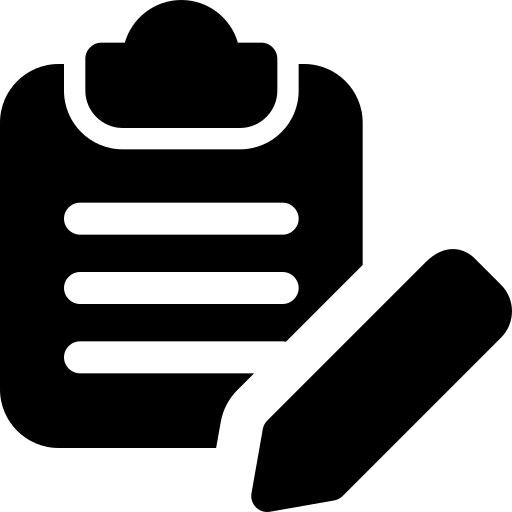
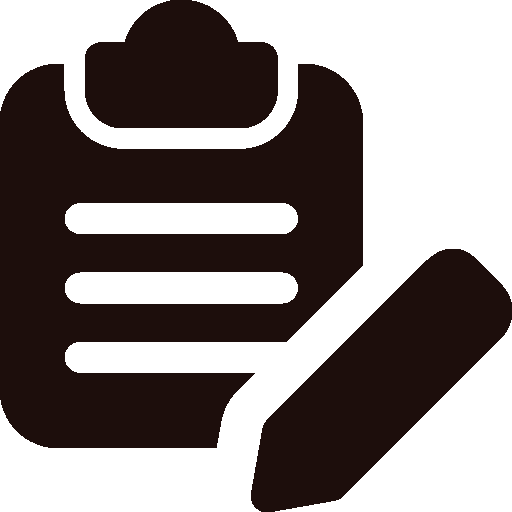
Ver IX.

diff --git a/orarend.js b/orarend.js
@@ -32,89 +32,89 @@ function orarendLetrehozas()
             <tr>
                 <td rowspan="2"><strong>Hétfő</strong></td>
                 <td rowspan="2"></td>
-                <td rowspan="2" onclick="oraTulajdonsagok('Blahó-Kiss Katalin', '18', 32, 'egész osztály')">köznev</td>
-                <td onclick="oraTulajdonsagok('Borbély Katalin', '6', 16, 'haladó angol')">mat</td>
-                <td onclick="oraTulajdonsagok('Kristó Ágnes', '21', 16, 'haladó angol')">ang</td>
-                <td rowspan="2" onclick="oraTulajdonsagok('Soltész Gábor', 'Tornaterem', 32, 'egész osztály')">test</td>
-                <td rowspan="2" onclick="oraTulajdonsagok('Blahó-Kiss Katalin', '18', 32, 'egész osztály')">iro</td>
-                <td rowspan="2" onclick="oraTulajdonsagok('Pádár Miklós', '1', 32, 'egész osztály')">tört</td>
-                <td rowspan="2" onclick="oraTulajdonsagok('Marczin Attila', '9', 32, 'egész osztály')">fiz</td>
+                <td class="attr" rowspan="2" onclick="oraTulajdonsagok('Osztályfőnöki', 'Blahó-Kiss Katalin', '18', 32, 'egész osztály')">köznev</td>
+                <td class="attr" onclick="oraTulajdonsagok('Matematika', 'Borbély Katalin', '6', 16, 'haladó angol')">mat</td>
+                <td class="attr" onclick="oraTulajdonsagok('Angol', 'Kristó Ágnes', '21', 16, 'haladó angol')">ang</td>
+                <td class="attr" rowspan="2" onclick="oraTulajdonsagok('Testnevelés', 'Soltész Gábor', 'Tornaterem', 32, 'egész osztály')">test</td>
+                <td class="attr" rowspan="2" onclick="oraTulajdonsagok('Irodalom', 'Blahó-Kiss Katalin', '18', 32, 'egész osztály')">iro</td>
+                <td class="attr" rowspan="2" onclick="oraTulajdonsagok('Történelem', 'Pádár Miklós', '1', 32, 'egész osztály')">tört</td>
+                <td class="attr" rowspan="2" onclick="oraTulajdonsagok('Fizika', 'Marczin Attila', '9', 32, 'egész osztály')">fiz</td>
                 <td rowspan="2"></td>
             </tr>
 
             <tr>
-                <td onclick="oraTulajdonsagok('Kovács Zsuzsanna', '7', 16, 'kezdő angol')">mat</td>
-                <td onclick="oraTulajdonsagok('Bodócsné Dér Krisztina', '17', 16, 'kezdő angol')">ang</td>
+                <td class="attr" onclick="oraTulajdonsagok('Matematika', 'Kovács Zsuzsanna', '7', 16, 'kezdő angol')">mat</td>
+                <td class="attr" onclick="oraTulajdonsagok('Angol', 'Bodócsné Dér Krisztina', '17', 16, 'kezdő angol')">ang</td>
             </tr>
 
             <tr>
                 <td rowspan="4"><strong>Kedd</strong></td>
                 <td rowspan="4"></td>
-                <td rowspan="2" onclick="oraTulajdonsagok('Blahó-Kiss Katalin', '38', 16, 'haladó angol')">nyt</td>
-                <td rowspan="2" colspan="2" onclick="oraTulajdonsagok('Válócziné Tóth Ildikó', '35', 16, 'haladó angol')">szang</td>
-                <td rowspan="2" onclick="oraTulajdonsagok('Borbély Katalin', '6', 'haladó angol')">mat</td>
-                <td rowspan="2" onclick="oraTulajdonsagok('Kristó Ágnes', '8', 16, 'haladó angol')">ang</td>
-                <td colspan="2" onclick="oraTulajdonsagok('Árvai Anita', '23', 16, 'haladó angol')">webpr</td>
+                <td class="attr" rowspan="2" onclick="oraTulajdonsagok('Nyelvtan', 'Blahó-Kiss Katalin', '38', 16, 'haladó angol')">nyt</td>
+                <td class="attr" rowspan="2" colspan="2" onclick="oraTulajdonsagok('Szakmai angol', 'Válócziné Tóth Ildikó', '35', 16, 'haladó angol')">szang</td>
+                <td class="attr" rowspan="2" onclick="oraTulajdonsagok('Matematika', 'Borbély Katalin', '6', 'haladó angol')">mat</td>
+                <td class="attr" rowspan="2" onclick="oraTulajdonsagok('Angol', 'Kristó Ágnes', '8', 16, 'haladó angol')">ang</td>
+                <td class="attr" colspan="2" onclick="oraTulajdonsagok('Webprogramozás', 'Árvai Anita', '23', 16, 'haladó angol')">webpr</td>
                 <td rowspan="4"></td>
             </tr>
 
             <tr>
-                <td colspan="2" onclick="oraTulajdonsagok('Kun Dániel', '25', 16, 'kezdő angol')">webpr</td>
+                <td class="attr" colspan="2" onclick="oraTulajdonsagok('Webprogramozás', 'Kun Dániel', '25', 16, 'kezdő angol')">webpr</td>
             </tr>
 
             <tr>
-                <td rowspan="2" onclick="oraTulajdonsagok('Bodócsné Dér Krisztina', '5', 16, kezdő angol)">ang</td>
-                <td rowspan="2" colspan="2" onclick="oraTulajdonsagok('Tüskéné Dombi Zsusanna', '24', 16, 'kezdő angol')">aalkf</td>
-                <td rowspan="2" colspan="2" onclick="oraTulajdonsagok('Horváth Zoltán', '23', 16, 'kezdő angol')">adatbkl</td>
-                <td onclick="oraTulajdonsagok('Árvai Anita', '23', 16, 'haladó angol')">webpr</td>
+                <td class="attr" rowspan="2" onclick="oraTulajdonsagok('Angol', 'Bodócsné Dér Krisztina', '5', 16, 'kezdő angol')">ang</td>
+                <td class="attr" rowspan="2" colspan="2" onclick="oraTulajdonsagok('Asztali alkalmazás-fejlesztés', 'Tüskéné Dombi Zsusanna', '24', 16, 'kezdő angol')">aalkf</td>
+                <td class="attr" rowspan="2" colspan="2" onclick="oraTulajdonsagok('Adatbázis-kezelés', 'Horváth Zoltán', '23', 16, 'kezdő angol')">adatbkl</td>
+                <td class="attr" onclick="oraTulajdonsagok('Webprogramozás', 'Árvai Anita', '23', 16, 'haladó angol')">webpr</td>
                 <td rowspan="2"></td>
             </tr>
 
             <tr>
-                <td onclick="oraTulajdonsagok('Kun Dániel', '25', 16, 'kezdő angol')">webpr</td>
+                <td class="attr" onclick="oraTulajdonsagok('Webprogramozás', 'Kun Dániel', '25', 16, 'kezdő angol')">webpr</td>
             </tr>
 
             <tr>
                 <td rowspan="2"><strong>Szerda</strong></td>
                 <td rowspan="2"></td>
-                <td rowspan="2" onclick="oraTulajdonsagok('Marczin Attila', '11', 32, 'egész osztály'")>fiz</td>
-                <td rowspan="2" onclick="oraTulajdonsagok('Lukács Edina', '11', 32, 'egész osztály'")>hit</td>
-                <td onclick="oraTulajdonsagok('Kristó Ágnes', '5', 16, 'haladó angol'")>ang</td>
-                <td rowspan="2" onclick="oraTulajdonsagok('Pádár Miklós', '1', 32, 'egész osztály'")>tört</td>
-                <td rowspan="2" onclick="oraTulajdonsagok('Blahó-Kiss Katalin', '18', 32, 'egész osztály'")>iro</td>
-                <td colspan="2" onclick="oraTulajdonsagok('Tüskéné Dombi Zsuzsanna', '25', 16, 'haladó angol'")>aalkf</td>
-                <td rowspan="2" onclick="oraTulajdonsagok('Soltész Gábor', 'Tornaterem', 32, 'egész osztály'")>test</td>
+                <td class="attr" rowspan="2" onclick="oraTulajdonsagok('Fizika', 'Marczin Attila', '11', 32, 'egész osztály')">fiz</td>
+                <td class="attr" rowspan="2" onclick="oraTulajdonsagok('Hittan', 'Lukács Edina', '11', 32, 'egész osztály')">hit</td>
+                <td class="attr" onclick="oraTulajdonsagok('Angol', 'Kristó Ágnes', '5', 16, 'haladó angol')">ang</td>
+                <td class="attr" rowspan="2" onclick="oraTulajdonsagok('Történelem', 'Pádár Miklós', '1', 32, 'egész osztály')">tört</td>
+                <td class="attr" rowspan="2" onclick="oraTulajdonsagok('Irodalom', 'Blahó-Kiss Katalin', '18', 32, 'egész osztály')">iro</td>
+                <td class="attr" colspan="2" onclick="oraTulajdonsagok('Asztali alkalmazás-fejlesztés', 'Tüskéné Dombi Zsuzsanna', '25', 16, 'haladó angol')">aalkf</td>
+                <td class="attr" rowspan="2" onclick="oraTulajdonsagok('Testnevelés', 'Soltész Gábor', 'Tornaterem', 32, 'egész osztály')">test</td>
             </tr>
 
             <tr>
-                <td onclick="oraTulajdonsagok('Bodócsné Dér Krisztina', '37', 16, 'kezdő csoport'")>ang</td>
-                <td onclick="oraTulajdonsagok('Blahó-Kiss Katalin', '18', 16, 'kezdő angol'")>nyt</td>
-                <td onclick="oraTulajdonsagok('Kovács Zsuzsanna', '7', 16, 'kezdő angol'")>mat</td>
+                <td class="attr" onclick="oraTulajdonsagok('Angol', 'Bodócsné Dér Krisztina', '37', 16, 'kezdő csoport')">ang</td>
+                <td class="attr" onclick="oraTulajdonsagok('Nyelvtan', 'Blahó-Kiss Katalin', '18', 16, 'kezdő angol')">nyt</td>
+                <td class="attr" onclick="oraTulajdonsagok('Matematika', 'Kovács Zsuzsanna', '7', 16, 'kezdő angol')">mat</td>
             </tr>
 
             <tr>
                 <td rowspan="2"><strong>Csütörtök</strong></td>
                 <td rowspan="2"></td>
-                <td colspan="2">webpr</td>
-                <td rowspan="2">iro</td>
-                <td colspan="2">adatbkl</td>
-                <td colspan="2">aalkf</td>
+                <td class="attr" colspan="2" onclick="oraTulajdonsagok('Webprogramozás', 'Árvai Anita', '23', 16, 'haladó angol')">webpr</td>
+                <td class="attr" rowspan="2" onclick="oraTulajdonsagok('Irodalom', 'Blahó-Kiss Katalin', '18', 32, 'egész osztály')">iro</td>
+                <td class="attr" colspan="2" onclick="oraTulajdonsagok('Adatbázis-kezelés', 'Horváth Zoltán', '25', 16, 'haladó angol')">adatbkl</td>
+                <td class="attr" colspan="2" onclick="oraTulajdonsagok('Asztali alkalmazás-fejlesztés', 'Tüskéné Dombi Zsuzsanna', '24', 16, 'haladó angol')">aalkf</td>
                 <td rowspan="2"></td>
             </tr>
 
             <tr>
-                <td colspan="2">webpr</td>
-                <td colspan="2">aalkf</td>
-                <td colspan="2">szang</td>
+                <td class="attr" colspan="2" onclick="oraTulajdonsagok('Webprogramozás', 'Kun Dániel', '22', 16, 'kezdő angol')">webpr</td>
+                <td class="attr" colspan="2" onclick="oraTulajdonsagok('Asztali alkalmazás-fejlesztés', 'Tüskéné Dombi Zsuzsanna', '24', 16, 'kezdő angol')">aalkf</td>
+                <td class="attr" colspan="2" onclick="oraTulajdonsagok('Szakmai angol', 'Tátrai Krisztina', '35', 16, 'kezdő angol')">szang</td>
             </tr>
 
             <tr>
                 <td rowspan="2"><strong>Péntek</strong></td>
-                <td rowspan="2">hit</td>
-                <td>mat</td>
-                <td rowspan="2">tört</td>
-                <td>ang</td>
-                <td rowspan="2">test</td>
+                <td class="attr" rowspan="2" onclick="oraTulajdonsagok('Hittan', 'Lukács Edina', '3', 32, 'egész osztály')">hit</td>
+                <td class="attr" onclick="oraTulajdonsagok('Matematika', 'Borbély Katalin', '6', 16, 'haladó angol')">mat</td>
+                <td class="attr" rowspan="2" onclick="oraTulajdonsagok('Történelem', 'Pádár Miklós', '1', 32, 'egész osztály')">tört</td>
+                <td class="attr" onclick="oraTulajdonsagok('Angol', 'Kristó Ágnes', '28', 16, 'haladó angol')">ang</td>
+                <td class="attr" rowspan="2" onclick="oraTulajdonsagok('Testnevelés', 'Soltész Gábor', 'Tornaterem', 32, 'egész osztály')">test</td>
                 <td rowspan="2"></td>
                 <td rowspan="2"></td>
                 <td rowspan="2"></td>
@@ -122,8 +122,8 @@ function orarendLetrehozas()
             </tr>
 
             <tr>
-                <td>mat</td>
-                <td>ang</td>
+                <td class="attr" onclick="oraTulajdonsagok('Matematika', 'Kovács Zsuzsanna', '7', 16, 'kezdő angol')">mat</td>
+                <td class="attr" onclick="oraTulajdonsagok('Angol', 'Bodócsné Dér Krisztina', '5', 16, 'kezdő angol')">ang</td>
             </tr>
         </table>
 
@@ -139,7 +139,28 @@ function adatokTorlese()
     </div>`
 }
 
-function oraTulajdonsagok()
+function oraTulajdonsagok(ora, tanar, terem, letszam, csoport)
 {
+    let oraMegnevezes = ora
+    let tanarMegnevezes = tanar
+    let teremMegnevezes = terem
+    let letszamMegnevezes = letszam
+    let csoportMegnevezes = csoport
+
     szuloTartalom.innerHTML = ''
+
+    szuloTartalom.innerHTML =
+    `<div class="keret_tulajdonsagok">
+        <img src="./kepek/bezaras.png" alt="Bezárás" title="A nézet bezárásához kattintson ide!" id="bezaras" onclick="orarendLetrehozas()">
+
+        <h1 class="cimek">${oraMegnevezes}</h1>
+        <hr>
+        <h2><b>Tanár</b>:\t${tanarMegnevezes}</h2>
+        <hr>
+        <h2><b>Terem</b>:\t${teremMegnevezes}</h2>
+        <hr>
+        <h2><b>Létszám</b>:\t${letszamMegnevezes}</h2>
+        <hr>
+        <h2><b>Csoport</b>:\t${csoportMegnevezes}</h2>
+    </div>`
 }

diff --git a/fooldal_stilus.css b/fooldal_stilus.css
@@ -15,7 +15,7 @@ header, nav, main, footer {
     height: auto;
 }
 
-.keret_fejlec, .keret_fo, .keret_navigacio, .keret_lablec, #cim {
+.keret_fejlec, .keret_fo, .keret_navigacio, .keret_lablec, .keret_tulajdonsagok, #cim {
     height: auto;
     margin: auto;
 }
@@ -54,6 +54,13 @@ h1 {
     font-style: normal;
     text-align: center;
     letter-spacing: 3px;
+}
+
+h2 {
+    font-size: 32px;
+    font-style: normal;
+    letter-spacing: 3px;
+    margin: 2.5rem 0;
 }
 
 p {
@@ -110,9 +117,20 @@ b {
     color: #D92243;
 }
 
+hr {
+    border: 2.5px solid #1D0E0C;
+    background-color: #1D0E0C;
+}
+
 .keret_navigacio {
     border-left: 5px solid #1D0E0C;
     border-right: 5px solid #1D0E0C;
+}
+
+.keret_tulajdonsagok {
+    width: 575px;
+    padding: 0 1rem;
+    border: 5px solid #1D0E0C;
 }
 
 .keret_lablec {
@@ -120,8 +138,8 @@ b {
 }
 
 .logreg {
-    width: 62.5px;
-    height: 62.5px;
+    width: 62px;
+    height: 62px;
     margin: 0 1rem;
     padding: 0 5px;
     transition: .125s;
@@ -138,12 +156,30 @@ b {
     text-decoration: underline #D92243;
 }
 
+.attr {
+    transition: .125s;
+}
+
+.attr:hover {
+    background-color: #EEE4D4;
+    transition: .125s;
+}
+
 #logo {
     width: 250px;
 }
 
-#bejelentkezes {
-    background-image: url(./kepek/bejelentkezes.png);
+#bezaras {
+    width: 50px;
+    height: 50px;
+    margin: 1rem 0 0 0;
+    float: right;
+    transition: .125s;
+}
+
+#bezaras:hover {
+    scale: 0.9;
+    transition: .125s;
 }
 
 .qm:hover, #logo:hover {